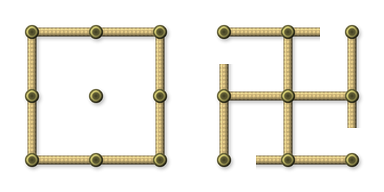
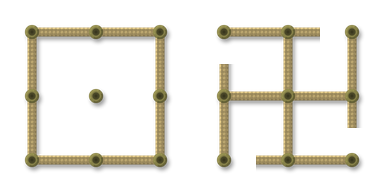
feat(art): fences and gates in the walls' style — hard facets per part, no outline, the darker palette

Changed region(s): [[0.5625, 0.125, 0.9375, 0.9062], [0.0625, 0.125, 0.4375, 0.9062], [0.2188, 0.4688, 0.2812, 0.5625]]

diff --git a/Global/Asset/Structure/make_fences.py b/Global/Asset/Structure/make_fences.py
@@ -1,5 +1,6 @@
-"""Fence and gate sheets in the walls' style (make_walls.py), lower and lighter: posts and rails joined to the fences
-beside them, 16 join shapes in the walls' side layout, 64 px a cell. A gate is one cell, 2 tiles: across, down.
+"""Fence and gate sheets in the walls' style (make_walls.py): a hard bevel on each part lit from the top-left, no outline,
+the walls' darker palette, a faint shadow; posts and rails joined to the fences beside them, 16 join shapes in the
+walls' side layout, 64 px a cell. A gate is one cell, 2 tiles: across, down.
 usage: python make_fences.py [key ...]      (needs Pillow, numpy)"""
 import os
 import sys
@@ -7,7 +8,7 @@ import sys
 import numpy as np
 from PIL import Image
 
-from make_walls import CELL, SIDES, SS, T, blur, box, bricks, erode, field, pillar, shift
+from make_walls import CELL, DARKEN, SIDES, SS, T, blur, box, bricks, erode, facets, field, pillar, shift
 
 HERE = os.path.dirname(os.path.abspath(__file__))
 C = T / 2
@@ -41,26 +42,21 @@ def along(tex_h, h, v):
 
 
 def paint(colour, tex):
-    return np.array(colour, np.float32) * tex[..., None]
+    return np.array(colour, np.float32) * DARKEN * tex[..., None]
 
 
-def render(layers, soft=1.6, shadow=0.28):
-    """Layers bottom to top as (mask, rgb, edge): each lit from the top-left, its edge darkened in its own colour;
-    a faint shadow down-right under them all."""
+def render(layers, soft=1.6, shadow=0.40):
+    """Layers bottom to top as (mask, rgb, edge): each given the walls' hard bevel (a lit band top-left, a shadowed
+    one bottom-right), no outline (`edge` is kept for the layer lists, unused); a faint shadow down-right."""
     shape = np.zeros((T, T), np.float32)
     col = np.zeros((T, T, 3), np.float32)
-    for m, c, edge in layers:
+    for m, c, _edge in layers:
         if not m.any():
             continue
-        s = blur(m, soft * SS)
-        k = int(1.2 * SS)
-        light = 1.0 - 0.9 * (shift(s, k, k) - shift(s, -k, -k))
-        cc = c * light[..., None]
-        ring = (m > 0) & ~(erode(m, 1.4 * SS) > 0)
-        cc[ring] *= edge
+        cc = c * facets(m, 1.6 if soft < 2 else 2.2)[..., None]
         col = np.where(m[..., None] > 0, cc, col)
         shape = np.maximum(shape, m)
-    drop = blur(shift(shape, 2 * SS, int(1.5 * SS)), 1.8 * SS) * shadow * (1 - shape)
+    drop = blur(shift(shape, 3 * SS, 2 * SS), 2.0 * SS) * shadow * (1 - shape)
     out = np.zeros((T, T, 4), np.float32)
     out[..., :3] = np.where(shape[..., None] > 0, col, 0)
     out[..., 3] = np.maximum(shape, drop) * 255
